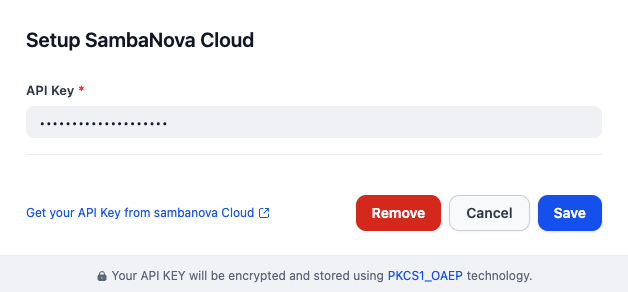
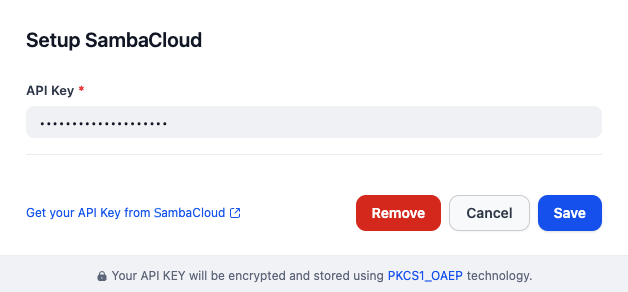
Update sambacloud models (#1394)
* update SambaCloud available Model list

* update labels to SambaCloud

* update label to SambaCloud

* update requirements

* fix typos

Changed region(s): [[0.242, 0.0925, 0.4236, 0.1849], [0.242, 0.7089, 0.4236, 0.7705]]

diff --git a/models/sambanova/provider/sambanova.py b/models/sambanova/provider/sambanova.py
@@ -19,7 +19,7 @@ class SambanovaModelProvider(ModelProvider):
         try:
             model_instance = self.get_model_instance(ModelType.LLM)
             model_instance.validate_credentials(
-                model="Llama-4-Scout-17B-16E-Instruct", credentials=credentials
+                model="Llama-4-Maverick-17B-128E-Instruct", credentials=credentials
             )
         except CredentialsValidateFailedError as ex:
             raise ex

diff --git a/models/sambanova/README.md b/models/sambanova/README.md
@@ -1,9 +1,9 @@
 ## Overview
 
-SambaNova Cloud is a cloud-based inference platform from SambaNova, Experience the best and fastest open-source models powered by SambaNova RDUs. With this plugin, developers can easily integrate SambaNova Cloud's models, including Llama, Qwen and DeepSeek model families, into applications requiring low latency via it's API.
+SambaCloud is a cloud-based inference platform from SambaNova, Experience the best and fastest open-source models powered by SambaNova RDUs. With this plugin, developers can easily integrate SambaCloud's models, including Llama, Qwen and DeepSeek model families, into applications requiring low latency via it's API.
 
 ## Configure
 
-To use SambaNovaCloud, you'll need your [API key](http://cloud.sambanova.ai?utm_source=dify&utm_medium=external&utm_campaign=cloud_signup) . After installing the plugin, find the Model Provider settings and enter the key you obtained from SambaNova Cloud. Save to activate.
+To use SambaCloud, you'll need your [API key](http://cloud.sambanova.ai?utm_source=dify&utm_medium=external&utm_campaign=cloud_signup) . After installing the plugin, find the Model Provider settings and enter the key you obtained from SambaCloud. Save to activate.
 
 ![](./_assets/sambanova-api-key.png)
